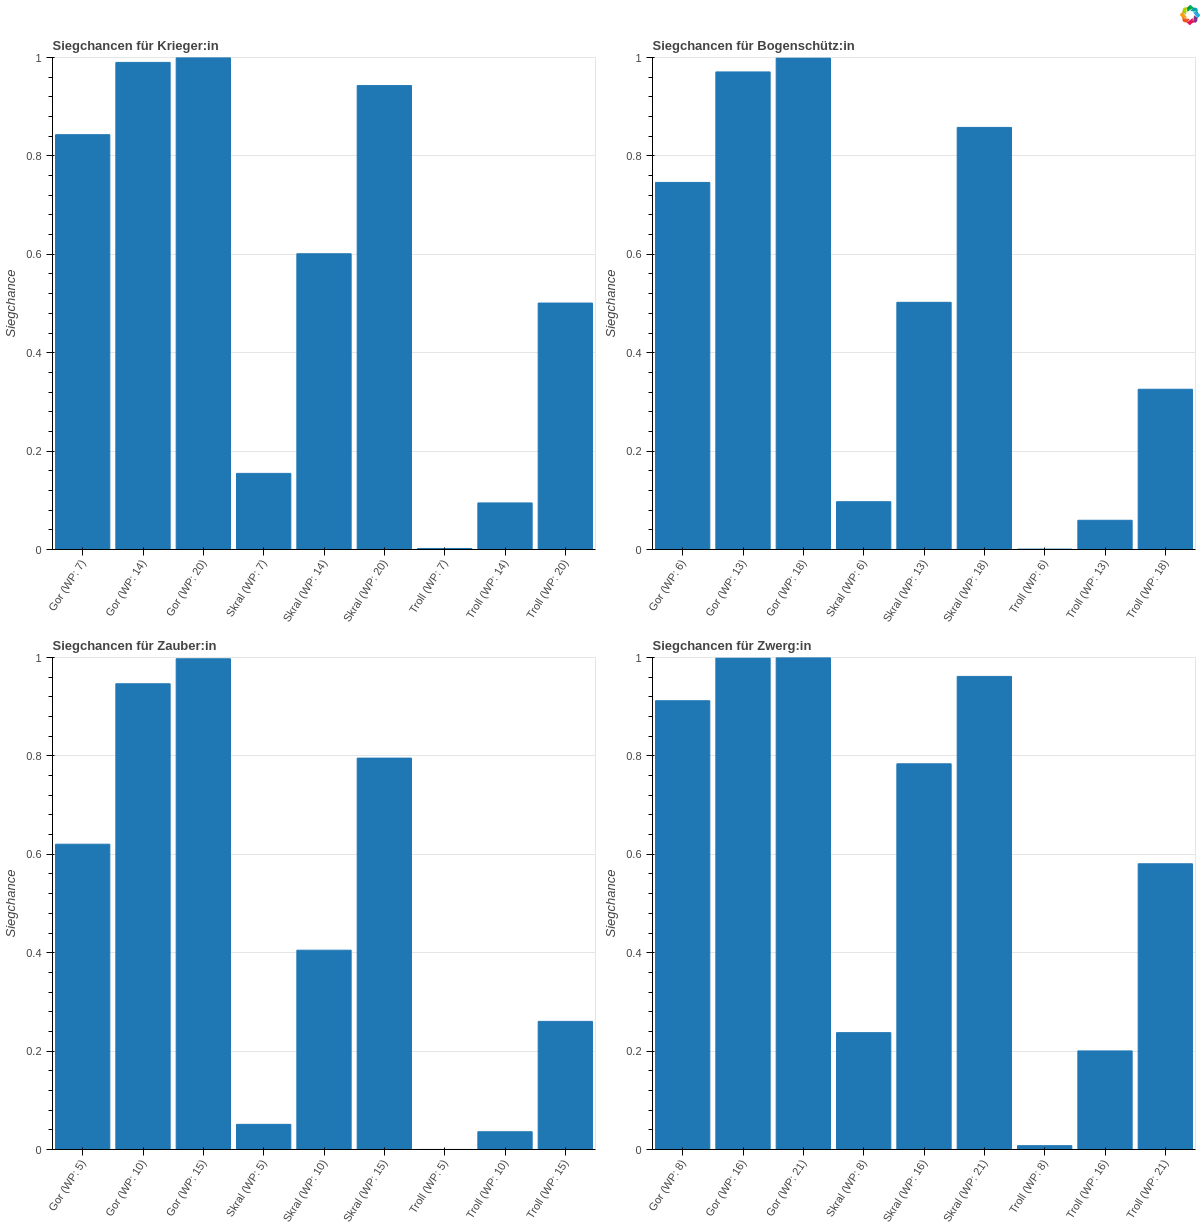
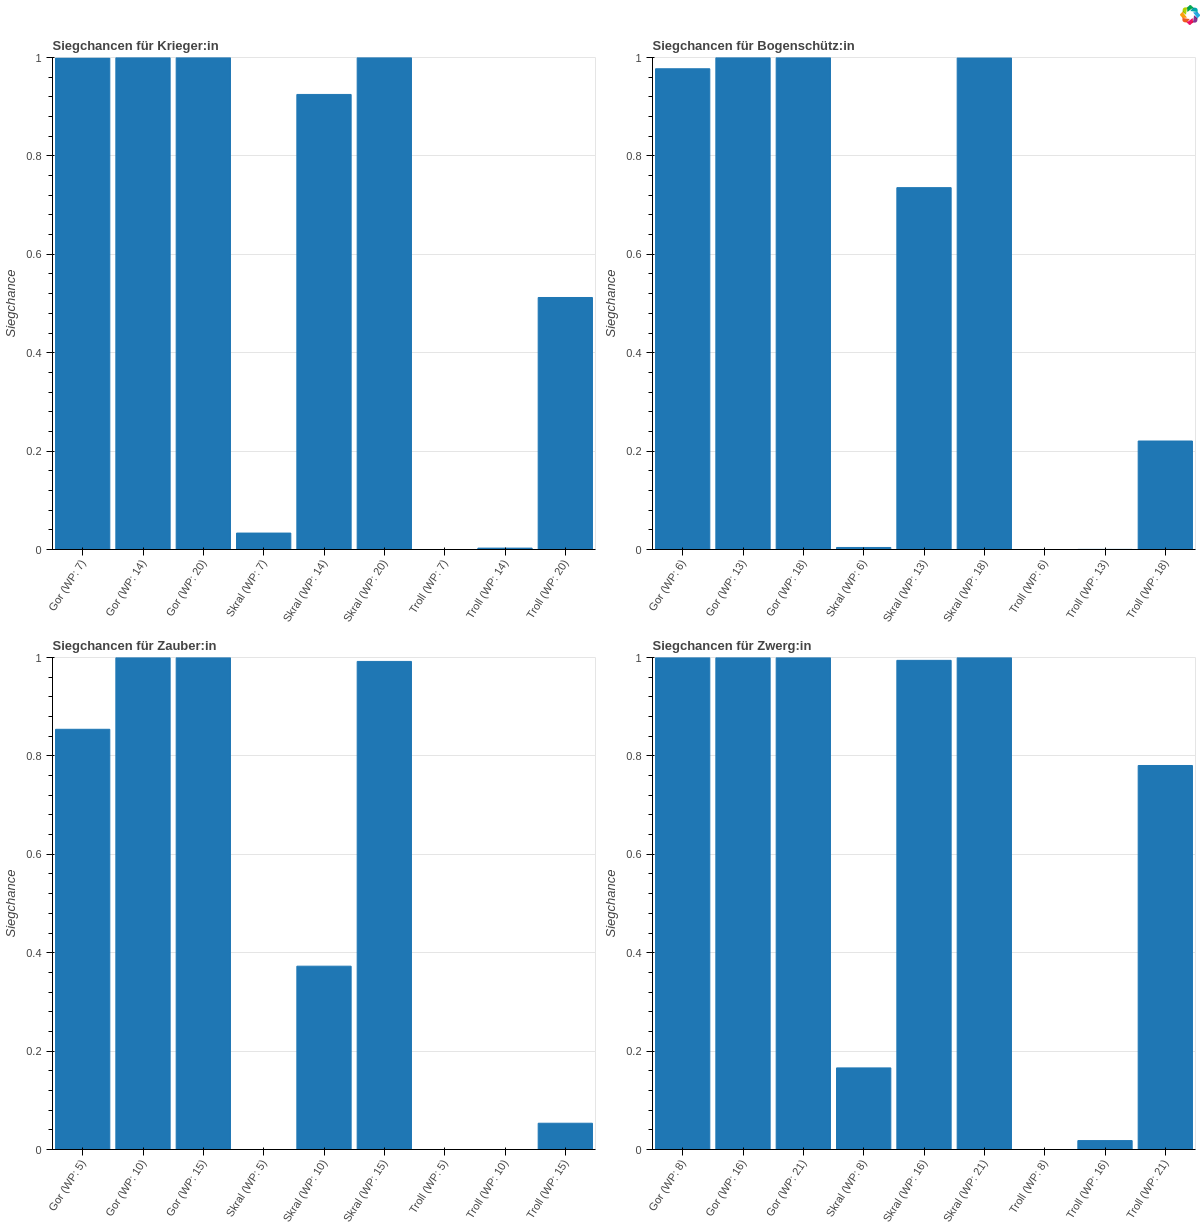
update

diff --git a/jans_main.py b/jans_main.py
@@ -5,15 +5,32 @@ from bokeh.io.export import export_png
 
 output_notebook()
 
-# Funktion zur Simulation eines Kampfes zwischen einer Held:in und einem Gegner
-def simulate_battle(hero_strength, hero_willpower, hero_dice, enemy_strength, enemy_willpower, enemy_dice, simulations=10000):
+# Funktion zur Simulation einer Kampfrunde
+def simulate_round(hero_strength, hero_dice, hero_wp, enemy_strength, enemy_dice, enemy_wp):
+    hero_roll = sum(np.random.randint(1, 7) for _ in range(hero_dice)) + hero_strength
+    enemy_roll = sum(np.random.randint(1, 7) for _ in range(enemy_dice)) + enemy_strength
+
+    if hero_roll > enemy_roll:
+        damage = hero_roll - enemy_roll
+        enemy_wp -= damage
+    elif enemy_roll > hero_roll:
+        damage = enemy_roll - hero_roll
+        hero_wp -= damage
+
+    return hero_wp, enemy_wp
+
+# Funktion zur Simulation eines Kampfes
+def simulate_battle(hero_strength, hero_initial_wp, hero_dice, enemy_strength, enemy_initial_wp, enemy_dice, simulations=10000):
     hero_wins = 0
 
     for _ in range(simulations):
-        hero_roll = sum(np.random.randint(1, 7) for _ in range(hero_dice)) + hero_strength + (hero_willpower // 5)
-        enemy_roll = sum(np.random.randint(1, 7) for _ in range(enemy_dice)) + enemy_strength + (enemy_willpower // 5)
+        hero_wp = hero_initial_wp
+        enemy_wp = enemy_initial_wp
 
-        if hero_roll > enemy_roll:
+        while hero_wp > 0 and enemy_wp > 0:
+            hero_wp, enemy_wp = simulate_round(hero_strength, hero_dice, hero_wp, enemy_strength, enemy_dice, enemy_wp)
+
+        if hero_wp > 0:
             hero_wins += 1
 
     win_probability = hero_wins / simulations
